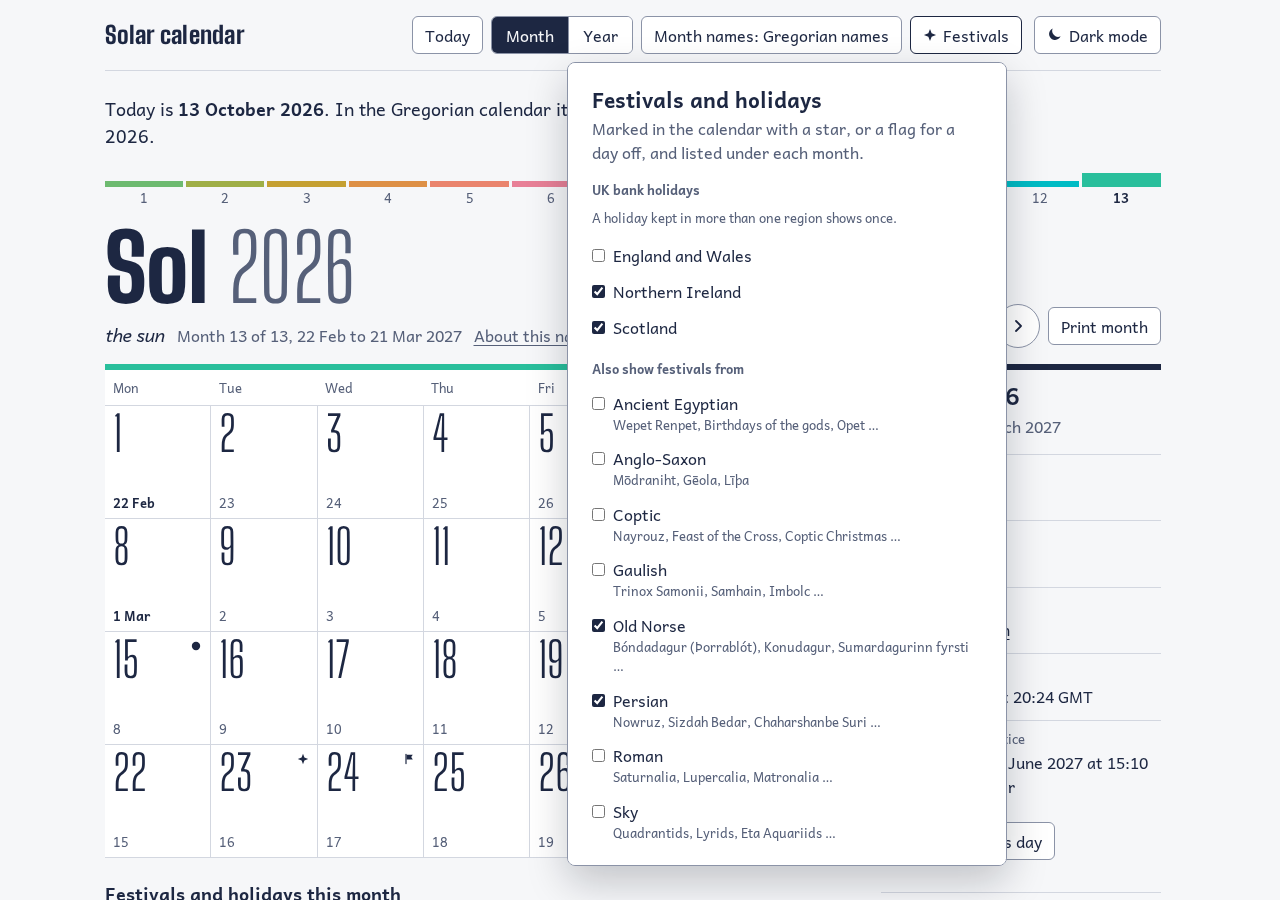
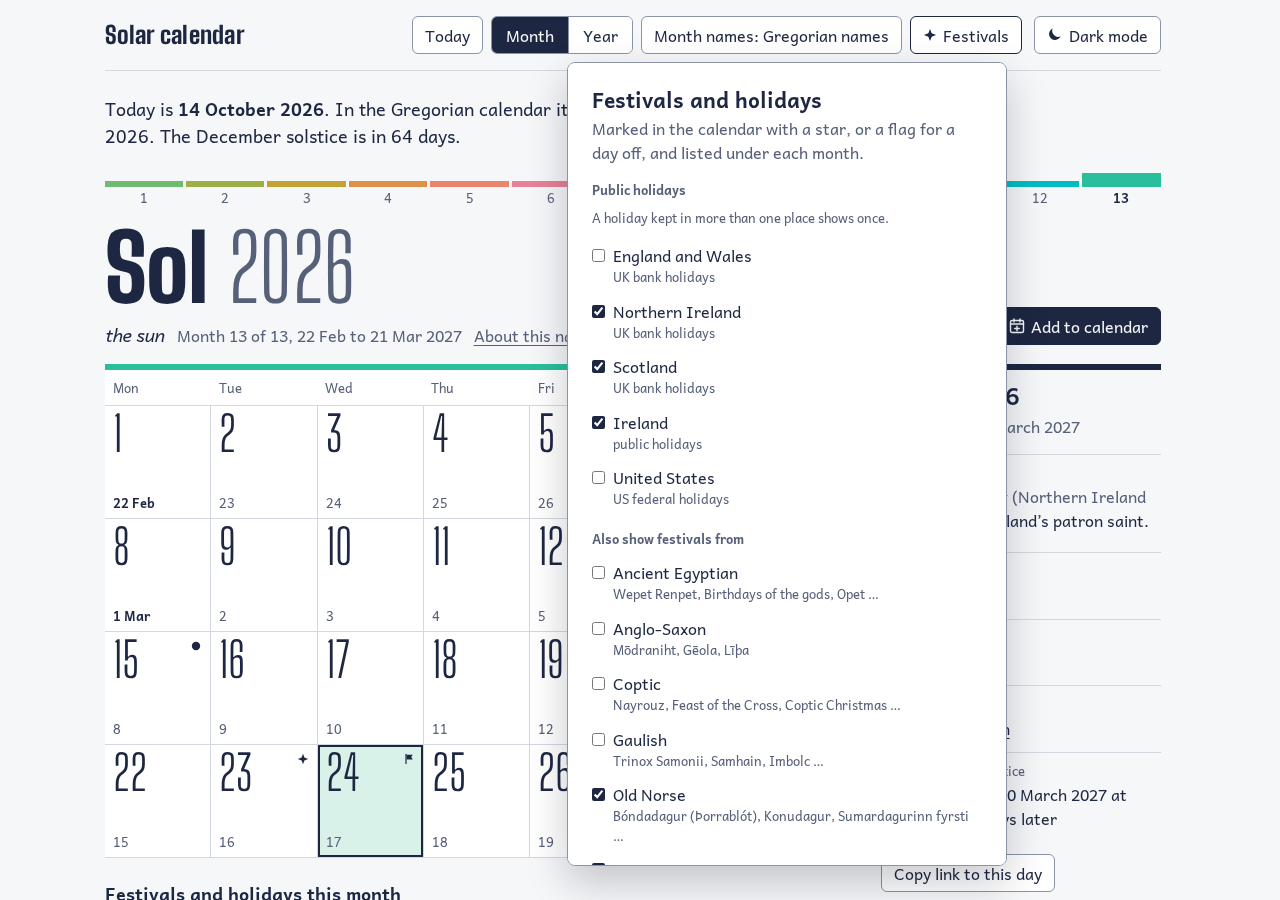
Retake the Festivals menu screenshot and record Phase 8 in the plan

diff --git a/docs/redesign.md b/docs/redesign.md
@@ -473,3 +473,15 @@ Status:
 - [x] Lighthouse re-run after Phase 7: unchanged, 98 performance on mobile and 100 on desktop, 100 for accessibility, best practices and SEO. Main bundle 24 KB gzipped. README screenshots retaken, with one of the Festivals menu.
 - [x] Regions can be shown together (requested 17 Oct 2026): checkboxes, with a holiday kept in several regions on the same day shown once, as "UK" or the regions' names.
 - [x] Review fixes: focus kept when the festival lists redraw, a ticked pack kept when it's also the chosen names, `moves` values must be text, and the holidays workflow split so the job that runs the project's code can't write.
+
+### Phase 8: improvements after launch (18 Oct 2026)
+
+The site is live at https://solar.dealmobile.co.uk. Everything suggested was done except personal dates, which the user turned down.
+
+- [x] First view no longer waits for other packs' festivals: on a throttled connection it appears after about 350 ms instead of 1.2 s. Lighthouse mobile stays at 96, held back by the render-blocking theme script and stylesheet, which are kept on purpose so the theme doesn't flash.
+- [x] Link previews: Open Graph tags and a 1200x630 image (`scripts/social-image.html`).
+- [x] Dependabot for npm and Actions, with a week's cooldown. Actions are pinned to commit SHAs. Security alerts and fixes are on.
+- [x] Worker logs (`observability` in `wrangler.jsonc`).
+- [x] `/today.svg` badge with today's solar date, and the next equinox or solstice in the line at the top. The day panel already had the countdown.
+- [x] Ireland's public holidays (from 1997) and US federal holidays (from 1971), checked against Nager.Date and OPM, with the US rule that moves Saturday's holiday to Friday.
+- [x] Cloudflare Web Analytics allowed in the CSP. It still has to be turned on for the domain in the dashboard.

diff --git a/README.md b/README.md
@@ -10,7 +10,7 @@ A calendar of 13 identical months. Every month has 28 days, exactly four weeks, 
 
 | Year view, dark mode | Choosing festivals and holidays |
 |---|---|
-| ![Every day of solar 2026 in one table, with Old Norse month names](docs/screenshots/year.png) | ![The Festivals menu, with Northern Ireland and Scotland bank holidays and Old Norse and Persian festivals chosen](docs/screenshots/festivals.png) |
+| ![Every day of solar 2026 in one table, with Old Norse month names](docs/screenshots/year.png) | ![The Festivals menu, with Northern Ireland, Scotland and Ireland holidays and Old Norse and Persian festivals chosen](docs/screenshots/festivals.png) |
 
 | On a phone | What a name means |
 |---|---|
